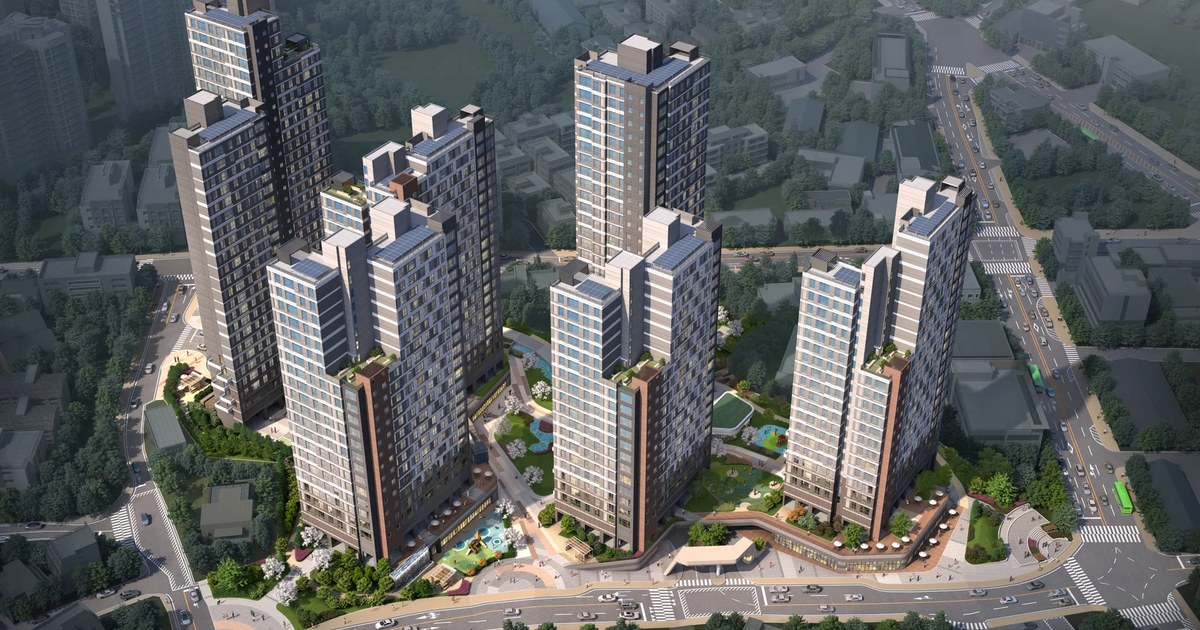
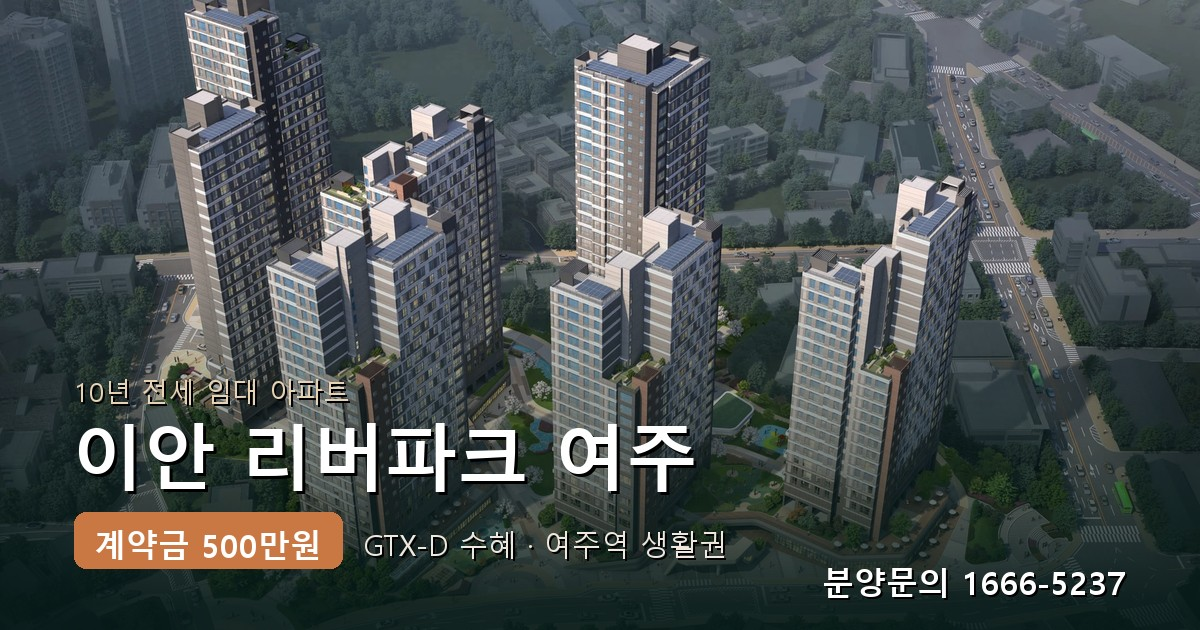
Improve OG preview: branded thumbnail and hook copy

diff --git a/index.html b/index.html
@@ -6,8 +6,8 @@
     <title>이안 리버파크 여주</title>
     <meta name="description" content="이안 리버파크 여주 분양 안내 메인" />
     <meta property="og:type" content="website" />
-    <meta property="og:title" content="이안 리버파크 여주" />
-    <meta property="og:description" content="이안 리버파크 여주 분양 안내 메인" />
+    <meta property="og:title" content="이안 리버파크 여주 | 계약금 500만원, GTX-D 수혜" />
+    <meta property="og:description" content="10년 전세 임대 · 25평 2억원대 · 여주역 생활권 · 선착순 한정 혜택" />
     <meta property="og:image" content="https://leechanhee123.github.io/Yeoju/assets/og-image.jpg" />
     <meta property="og:url" content="https://leechanhee123.github.io/Yeoju/" />
     <meta property="og:locale" content="ko_KR" />